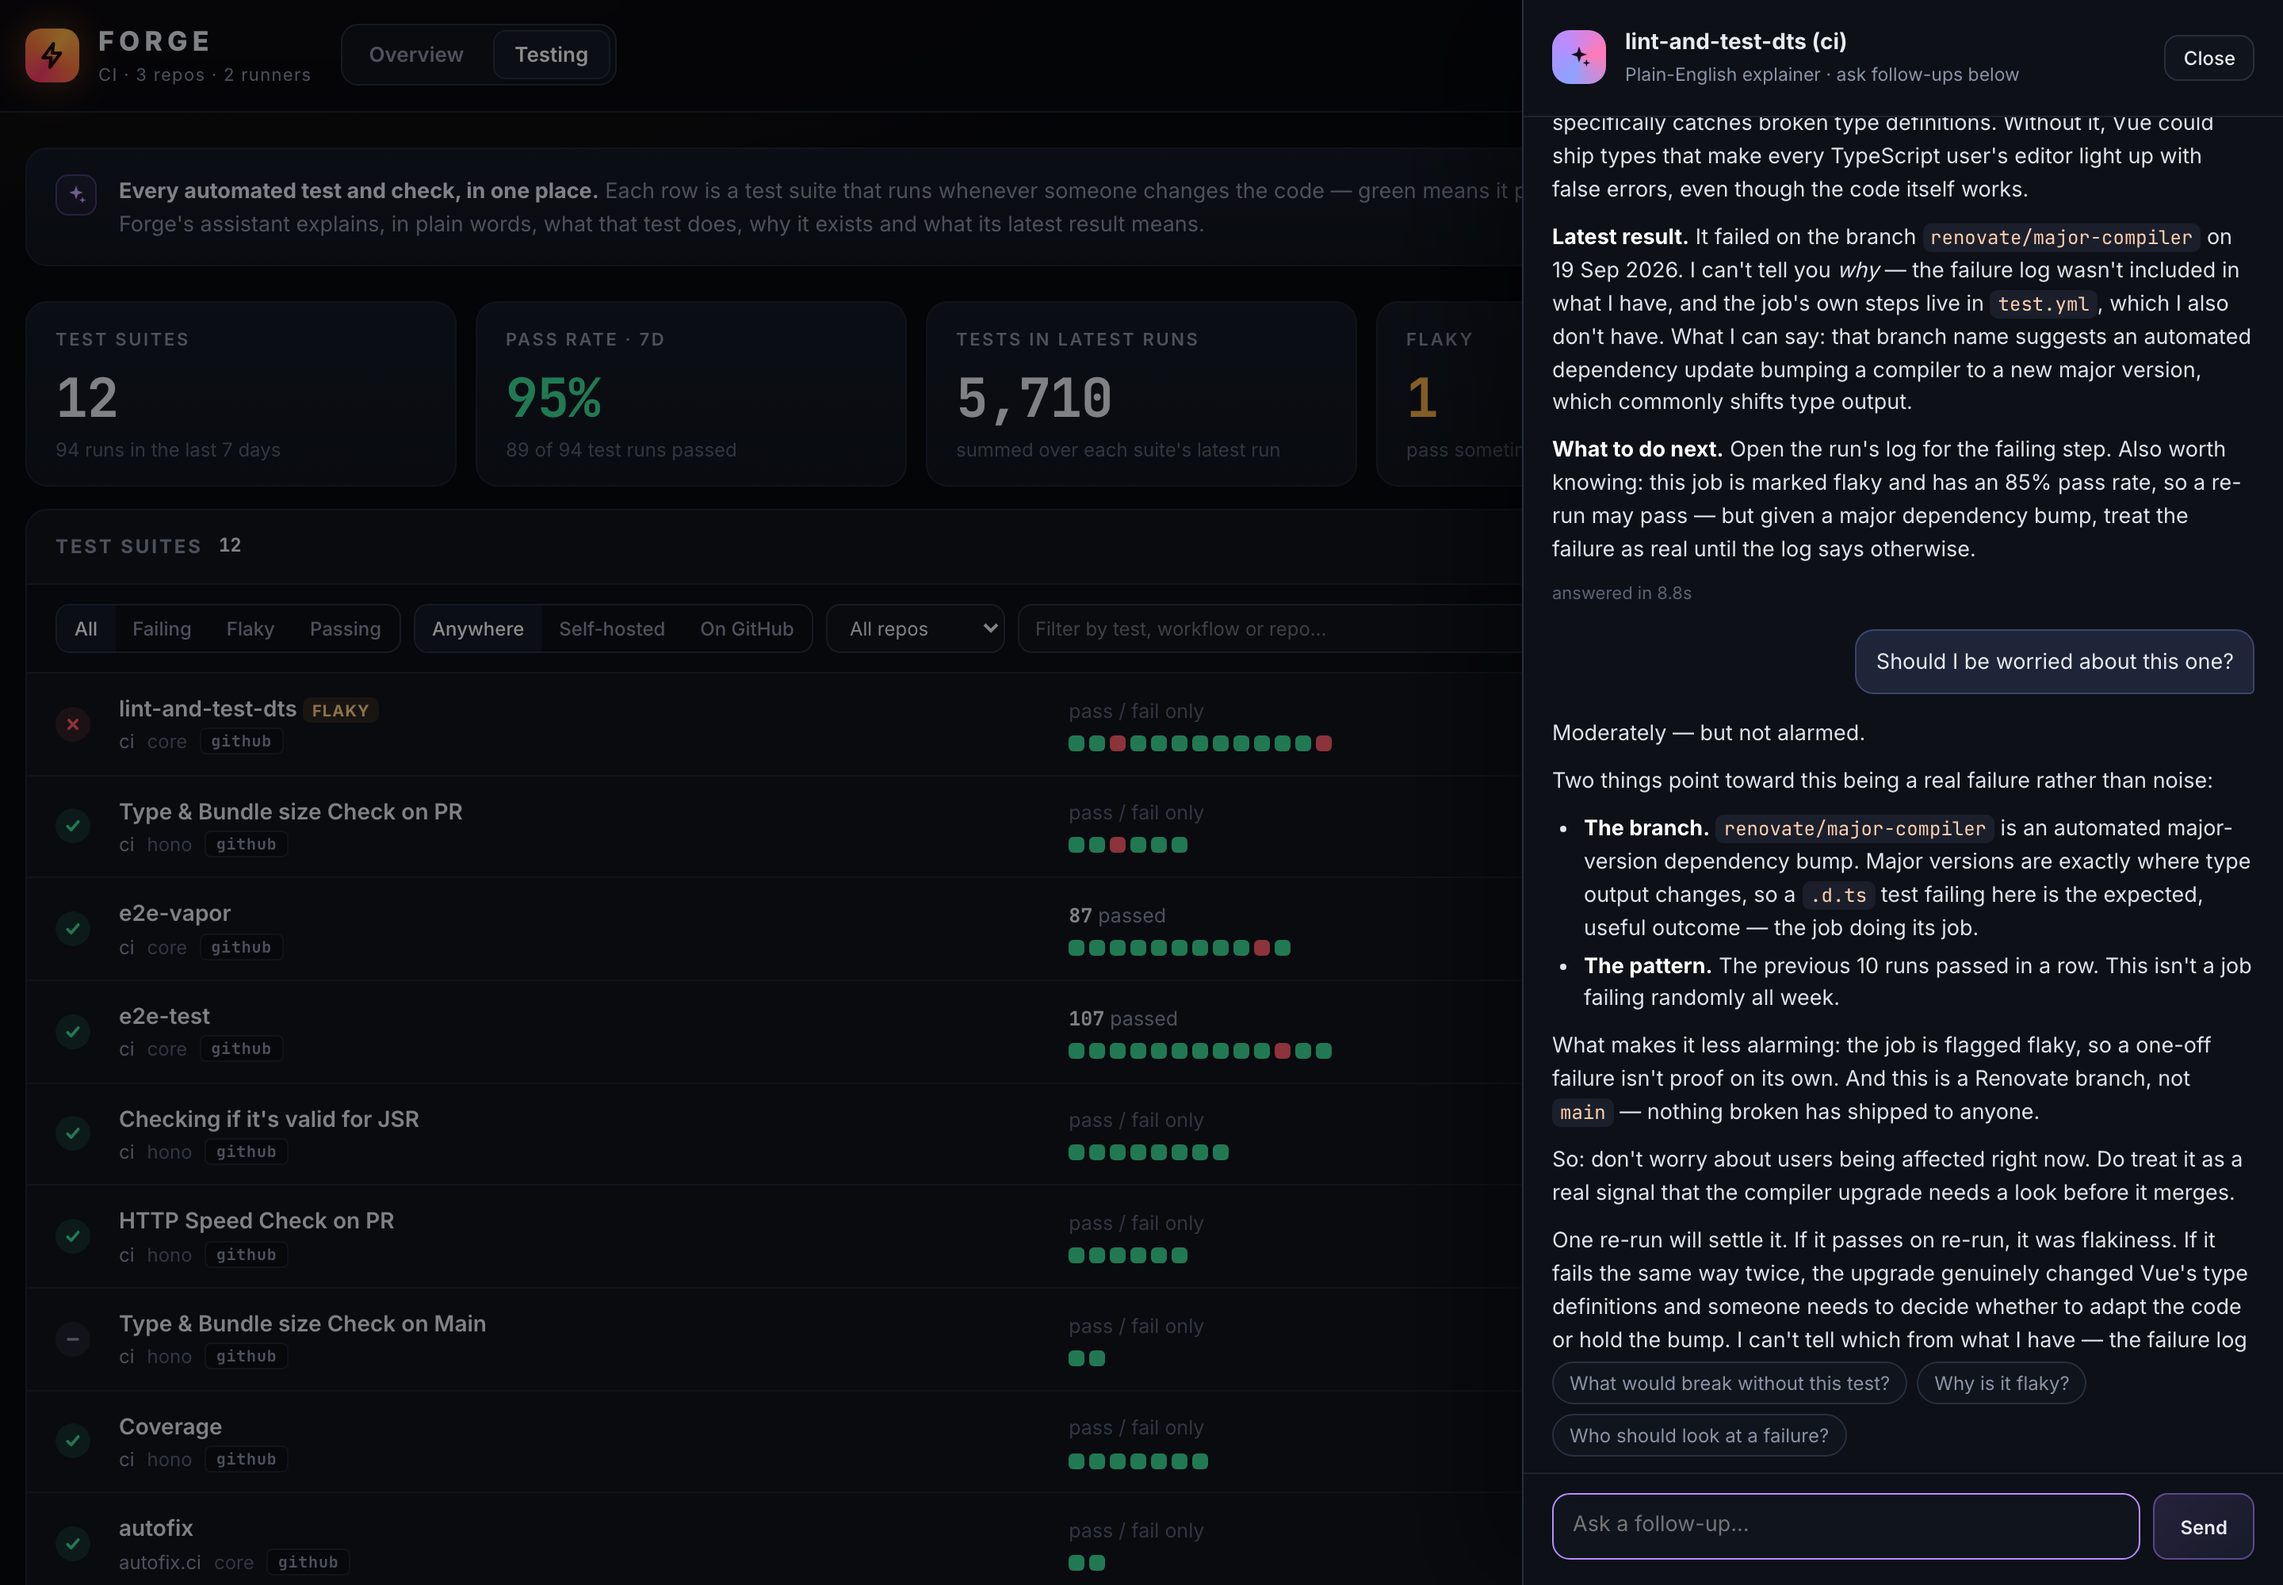
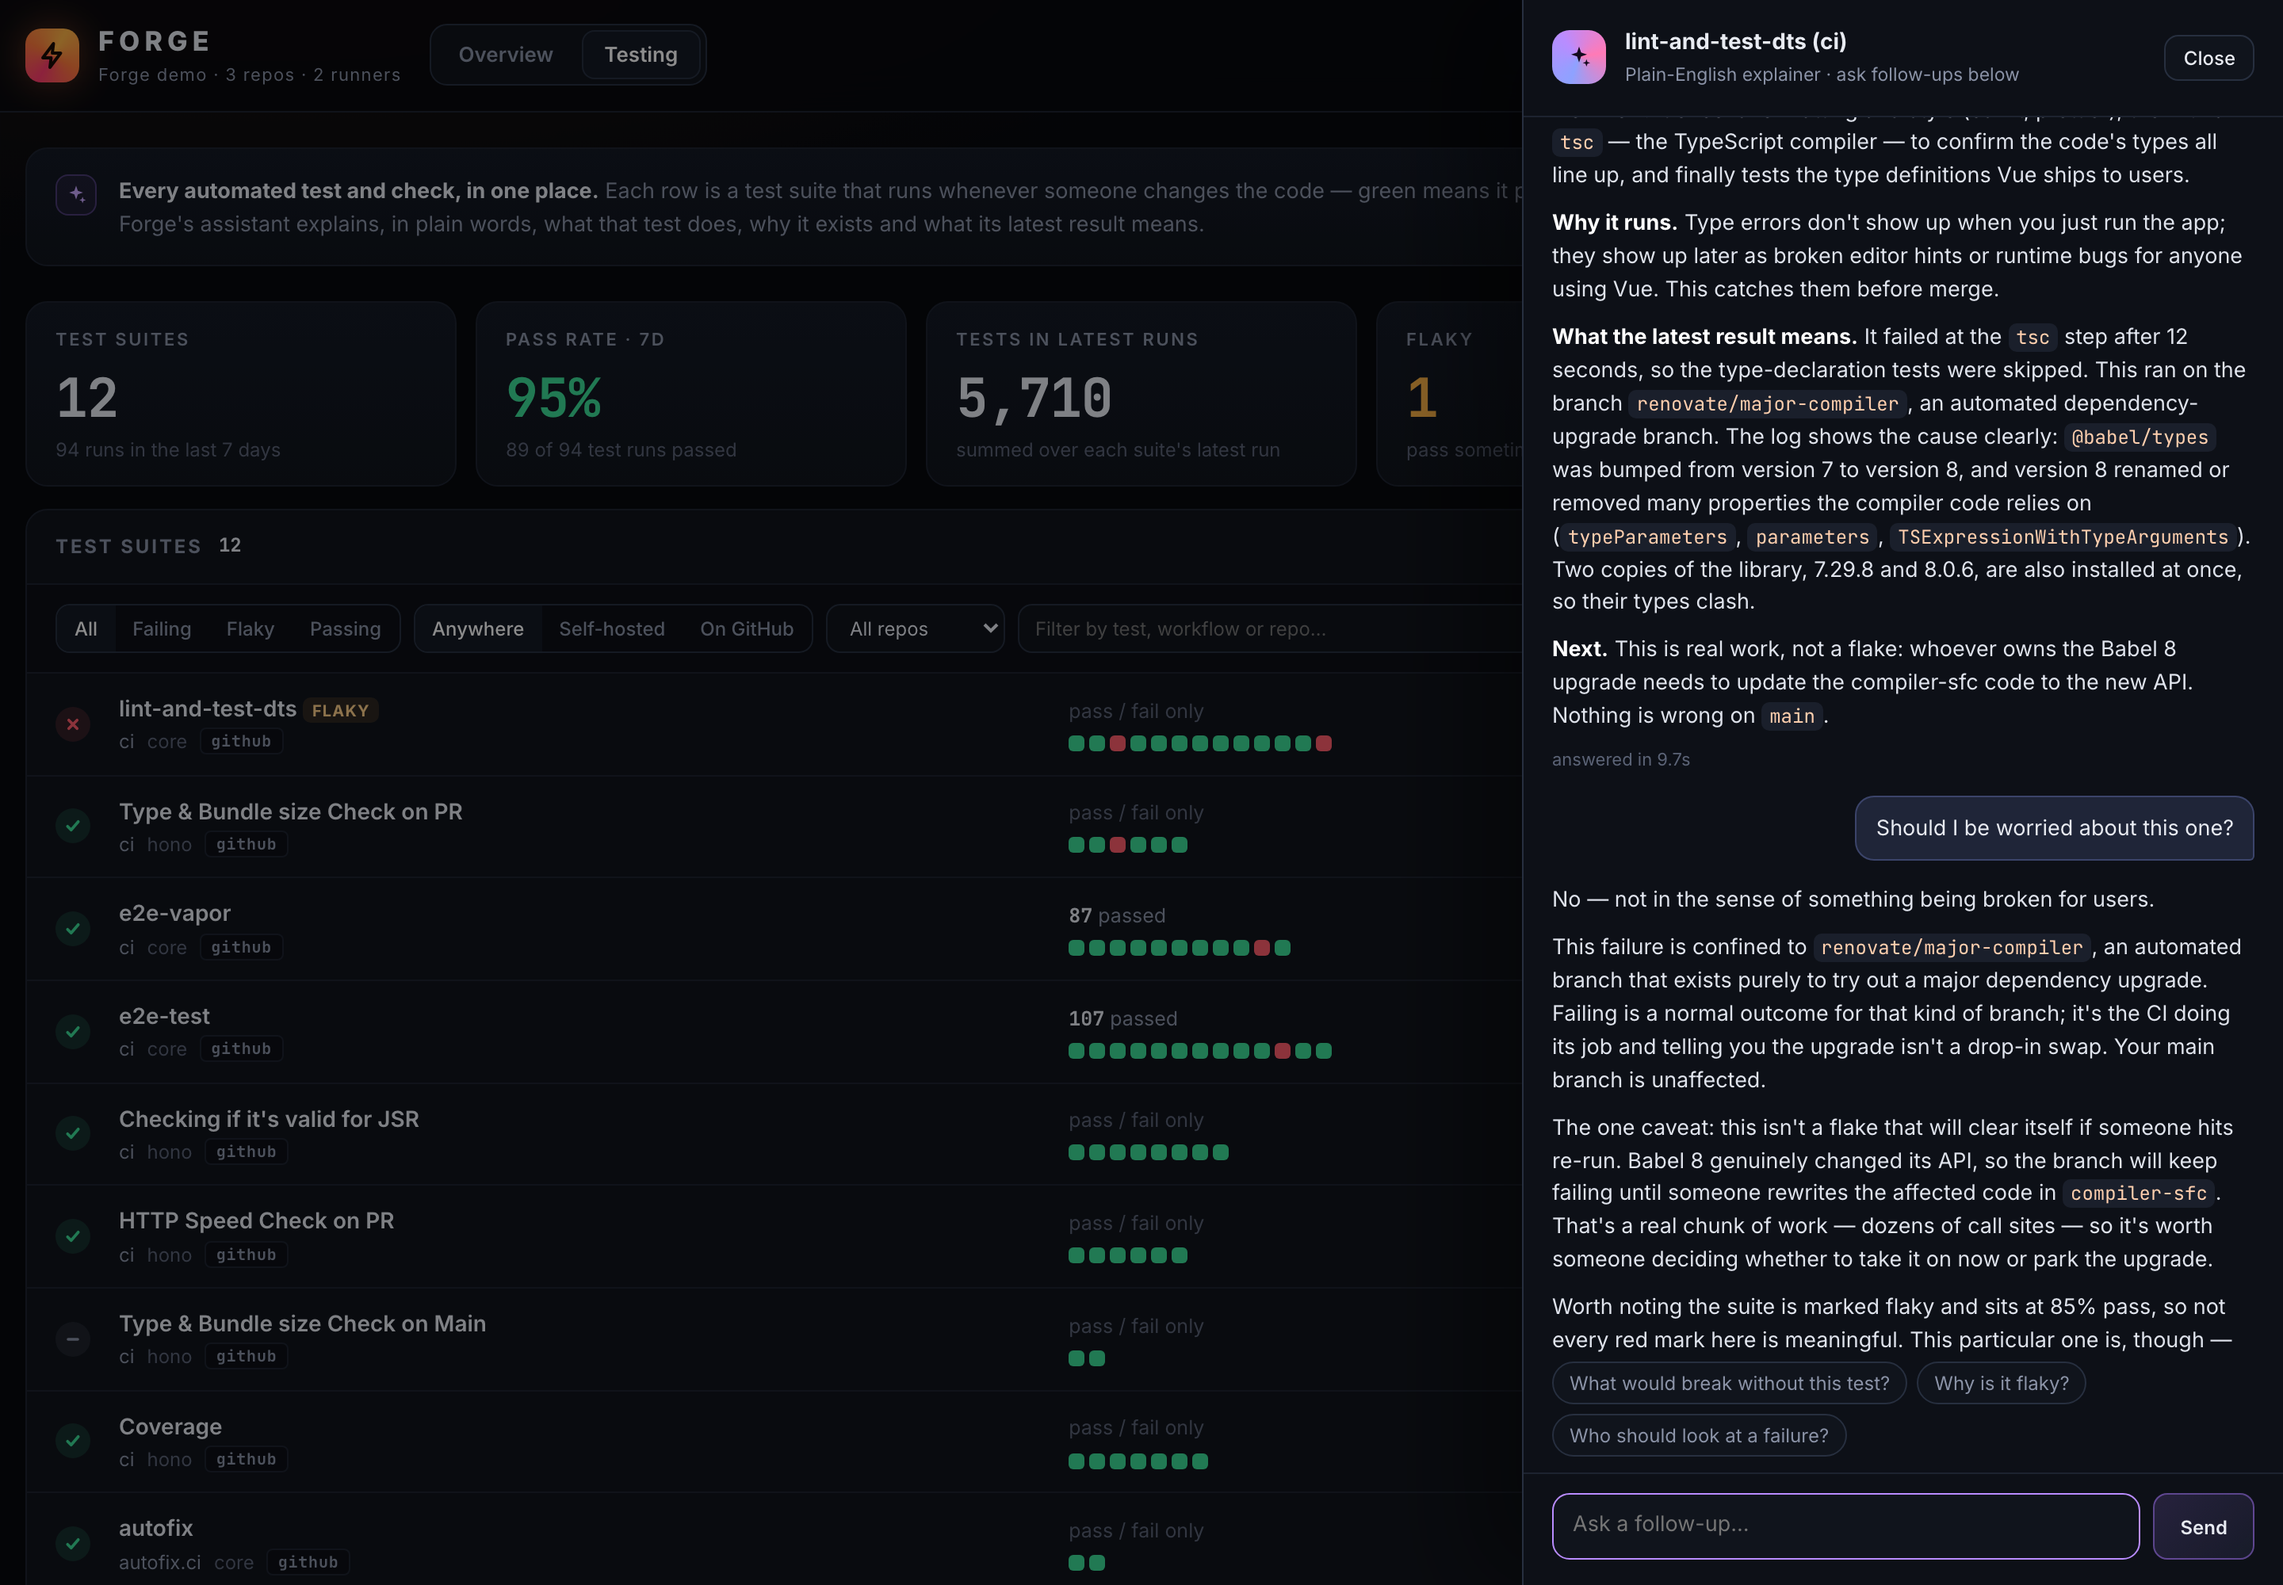
docs: screenshots of the AI explainer and follow-up chat

Changed region(s): [[0.6562, 0.062, 1.0, 0.868], [0.1562, 0.031, 0.3125, 0.062]]

diff --git a/README.md b/README.md
@@ -126,6 +126,12 @@ Edit `~/.forge-ci/forge.env` and re-run the installer (or `docker restart forge-
 - Follow-up chat keeps that context, with suggested questions and an **Ask Forge** button for questions about the whole dashboard.
 - First explanations are cached for each item and result, so everyone after the first person gets them instantly and free. A per-person rate limit caps spending.
 
+  ![The AI explainer: a failing test suite explained in plain English, with the root cause read out of the log](docs/screenshots/ai-explainer.png)
+
+  *A real failure in `vuejs/core`, explained by pressing ✦ — Forge read the log and found the cause (a major `@babel/types` upgrade renaming properties the compiler uses). Follow-up questions keep the same context:*
+
+  ![Follow-up chat: "Should I be worried about this one?"](docs/screenshots/ai-chat.png)
+
 **Alerts**
 - Email when a workflow goes from passing to **failing**, when it **recovers**, and when a self-hosted runner has been **offline** for 5 minutes. It only emails when something changes, so a job that keeps failing doesn't flood your inbox.
 - Works with [Resend](https://resend.com) or any SMTP server. There's a "Send test email" button.
